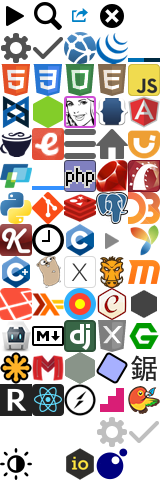
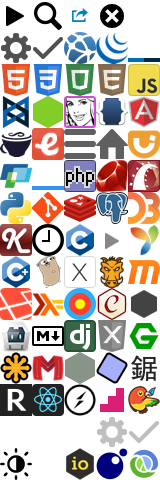
Add Clojure documentation

Changed region(s): [[0.8125, 0.9375, 1.0, 1.0]]

diff --git a/assets/stylesheets/global/_icons.scss b/assets/stylesheets/global/_icons.scss
@@ -87,3 +87,4 @@
 %icon-light-white           { background-position: -1rem -14rem; }
 ._icon-iojs:before          { background-position: -2rem -14rem; }
 ._icon-lua:before           { background-position: -3rem -14rem; }
+._icon-clojure:before       { background-position: -4rem -14rem; }

diff --git a/assets/stylesheets/pages/_clojure.scss b/assets/stylesheets/pages/_clojure.scss
@@ -1,0 +1,10 @@
+._clojure {
+  h2:not([id]) { @extend %block-heading; }
+  h2[id], h3 { @extend %block-label, %label-blue; }
+
+  .type {
+    float: right;
+    font-size: .9em;
+    color: $textColorLight;
+  }
+}

diff --git a/assets/stylesheets/application-dark.css.scss b/assets/stylesheets/application-dark.css.scss
@@ -32,6 +32,7 @@
         'pages/bower',
         'pages/c',
         'pages/chai',
+        'pages/clojure',
         'pages/coffeescript',
         'pages/cordova',
         'pages/d3',

diff --git a/assets/stylesheets/application.css.scss b/assets/stylesheets/application.css.scss
@@ -32,6 +32,7 @@
         'pages/bower',
         'pages/c',
         'pages/chai',
+        'pages/clojure',
         'pages/coffeescript',
         'pages/cordova',
         'pages/d3',

diff --git a/lib/docs/filters/clojure/clean_html.rb b/lib/docs/filters/clojure/clean_html.rb
@@ -1,0 +1,44 @@
+module Docs
+  class Clojure
+    class CleanHtmlFilter < Filter
+      def call
+        if root_page?
+          doc.inner_html = '<h1>Clojure</h1>'
+          return doc
+        end
+
+        @doc = at_css('#content-tag')
+
+        at_css('h1').content = slug.remove('-api')
+
+        css('> div').each do |node|
+          node.before(node.children).remove
+        end
+
+        css('div > h2', 'div > h3').each do |node|
+          node.parent.before(node.parent.children).remove
+        end
+
+        css('#proto-type', '#var-type', '#type-type').each do |node|
+          node.previous_element << node
+          node['class'] = 'type'
+        end
+
+        css('.proto-added', '.var-added', '.proto-deprecated', '.var-deprecated').each do |node|
+          node.content = node.content
+          node.name = 'p'
+        end
+
+        css('.proto-added', '.var-added').each do |node|
+          if node.content == node.next_element.try(:content)
+            node.remove
+          end
+        end
+
+        css('hr', 'br:first-child', 'pre + br', 'h1 + br', 'h2 + br', 'h3 + br', 'p + br', 'br + br').remove
+
+        doc
+      end
+    end
+  end
+end

diff --git a/lib/docs/filters/clojure/entries.rb b/lib/docs/filters/clojure/entries.rb
@@ -1,0 +1,22 @@
+module Docs
+  class Clojure
+    class EntriesFilter < Docs::EntriesFilter
+      def get_name
+        slug.remove('-api')
+      end
+
+      def get_type
+        'Namespaces'
+      end
+
+      def additional_entries
+        css(".toc-entry-anchor[href^='##{self.name}']").map do |node|
+          name = node.content
+          id = node['href'].remove('#')
+          type = name == 'clojure.core' ? id.split('/').first : self.name
+          [name, id, type]
+        end
+      end
+    end
+  end
+end

diff --git a/lib/docs/scrapers/clojure.rb b/lib/docs/scrapers/clojure.rb
@@ -1,0 +1,18 @@
+module Docs
+  class Clojure < UrlScraper
+    self.type = 'clojure'
+    self.version = '1.6'
+    self.base_url = 'http://clojure.github.io/clojure/'
+    self.root_path = 'api-index.html'
+
+    html_filters.push 'clojure/entries', 'clojure/clean_html'
+
+    options[:container] = '#content_view'
+    options[:only_patterns] = [/\Aclojure\./]
+
+    options[:attribution] = <<-HTML
+      &copy; Rich Hickey<br>
+      Licensed under the Eclipse Public License 1.0.
+    HTML
+  end
+end
